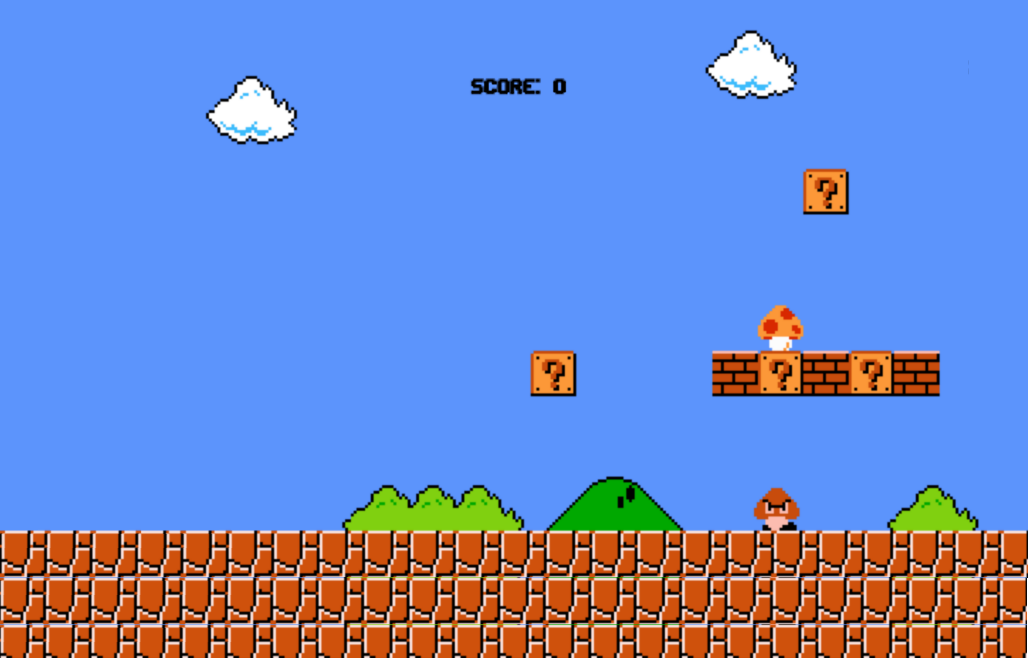
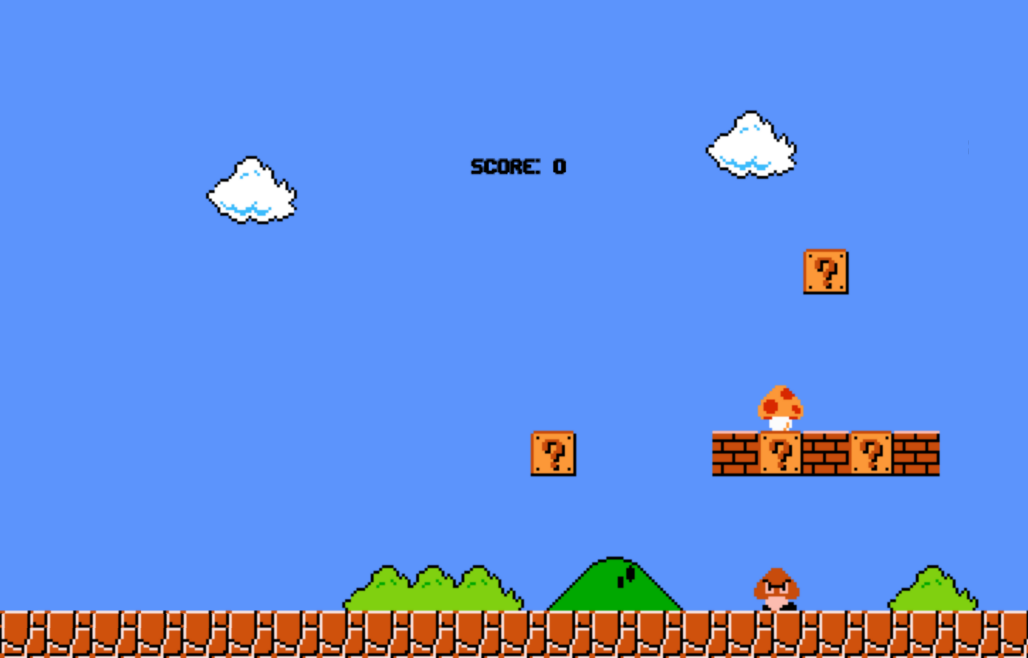
a

diff --git a/nerdme/super-mario.html b/nerdme/super-mario.html
@@ -59,7 +59,7 @@ section {
 
 
 main {
-  top: -400px;
+  top: -200px;
   animation: movingBottomToTop steps(22, end)  15s;
   position: relative;
   width: 60%;
